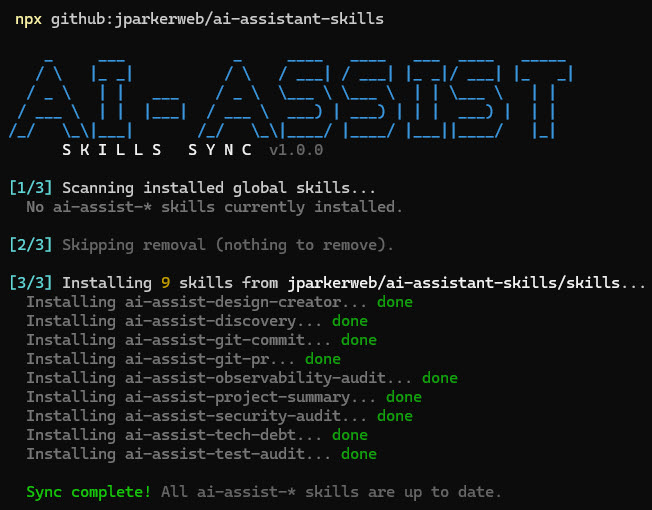
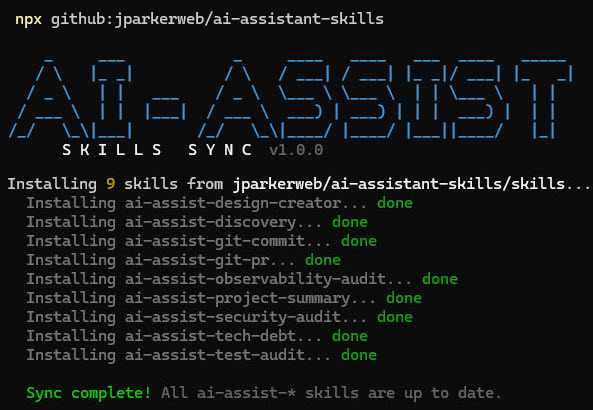
docs

Changed region(s): [[0.0, 0.1171, 0.9713, 0.9073], [0.0304, 0.9366, 0.8499, 0.9951], [0.0, 0.0, 0.6678, 0.0878]]

diff --git a/README.md b/README.md
@@ -16,6 +16,8 @@ npx github:jparkerweb/ai-assistant-skills
 
 Skills are installed globally via [skills.sh](https://skills.sh) and auto-detected by 40+ AI agents (Claude Code, Cursor, Windsurf, GitHub Copilot, etc.).
 
+<img src="https://github.com/jparkerweb/ai-assistant-skills/blob/main/ai-assistant-install.jpg?raw=true" style="max-width: 593px;">
+
 ## Local Development
 
 When creating or editing a skill, you need to install it locally to test it **before** committing or pushing. The `skills add` command accepts a local path as the source, so it installs directly from your working tree — no git push required.
